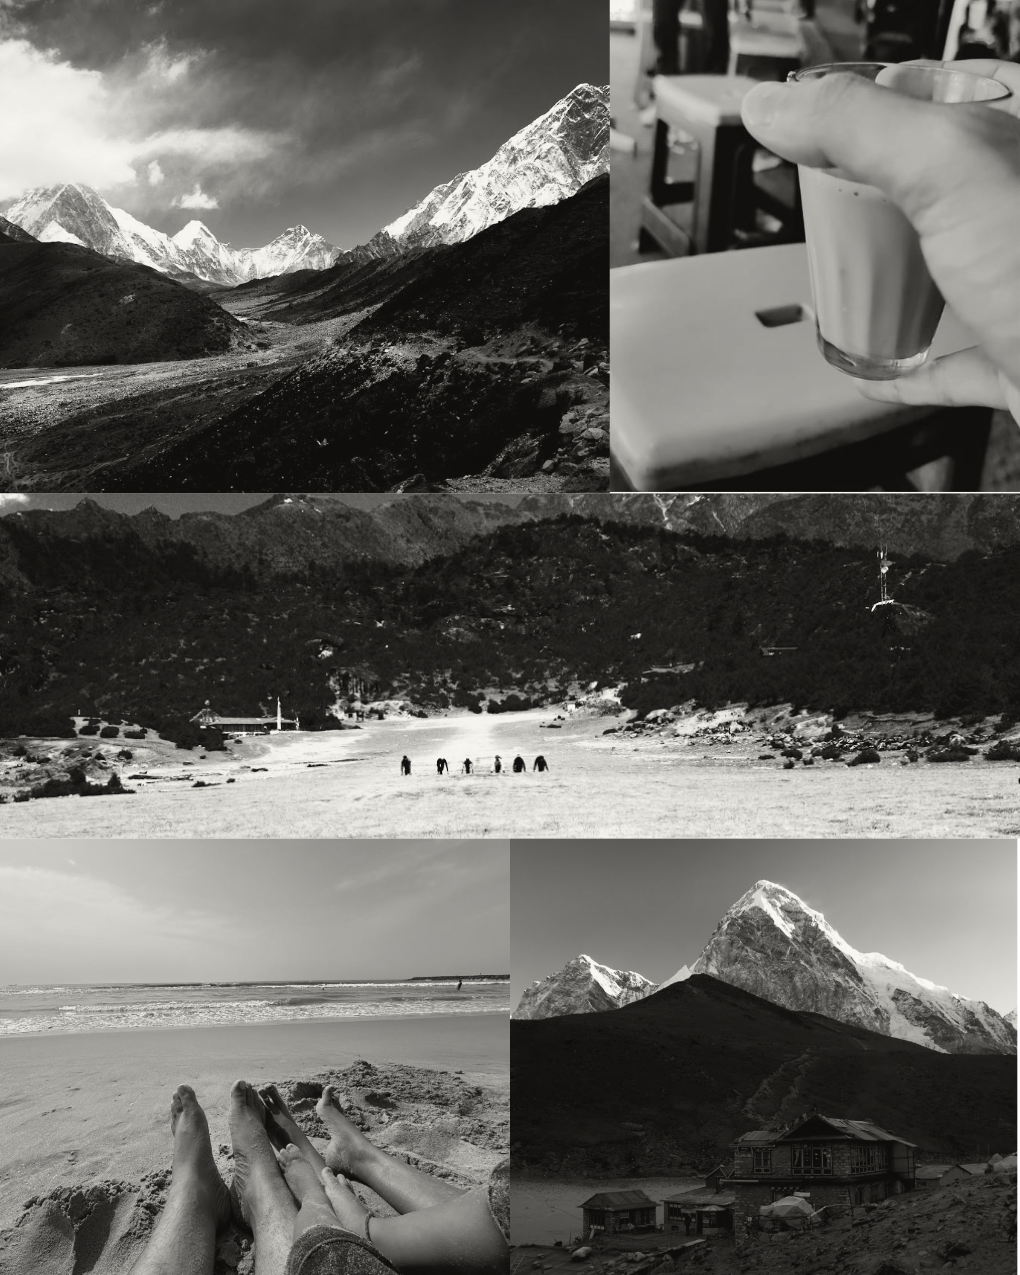
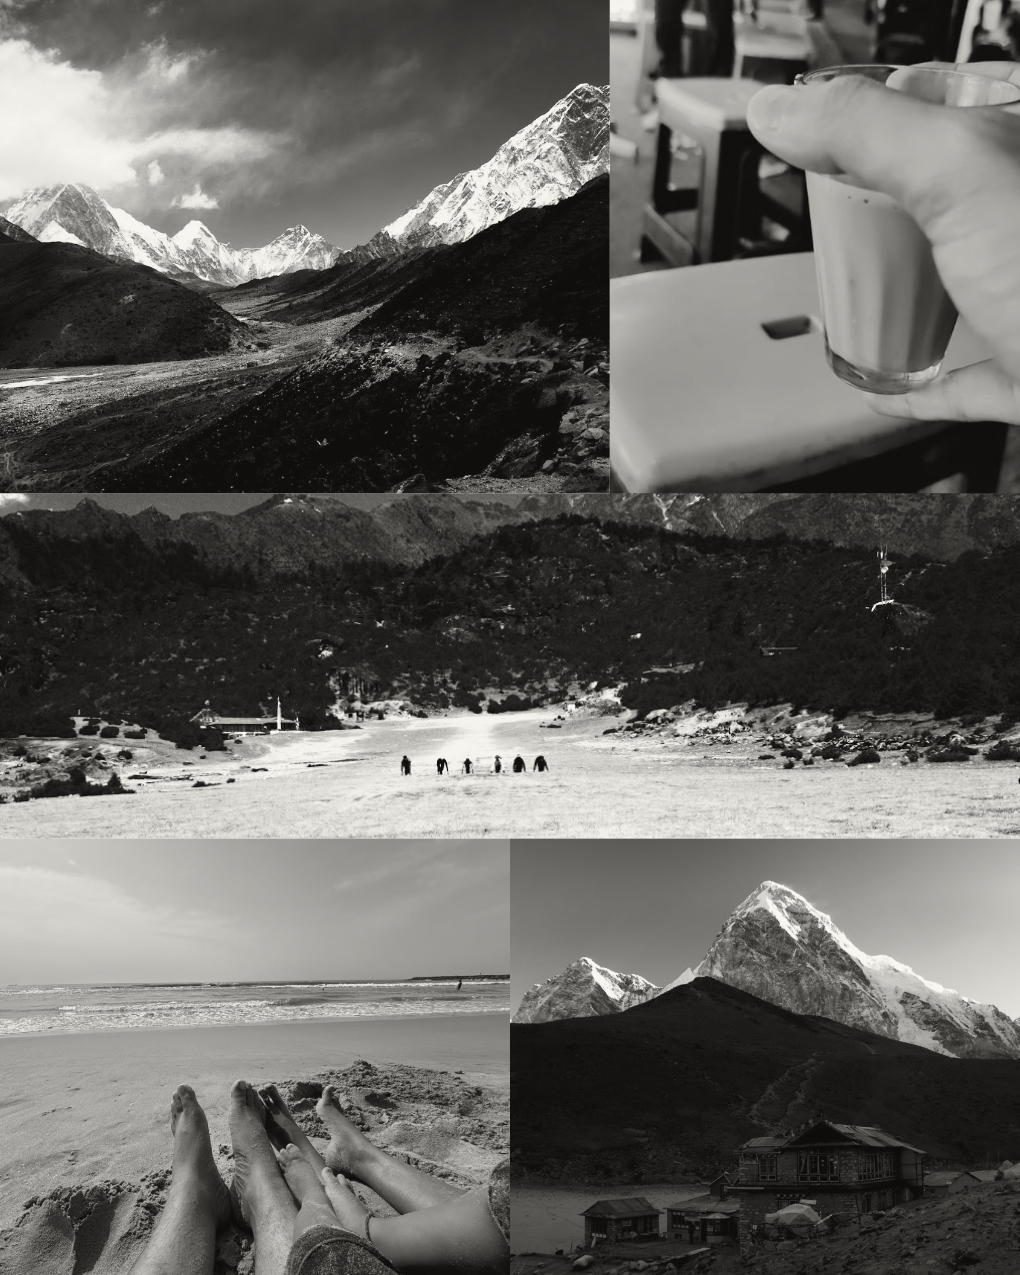
add heroimage

diff --git a/src/pages/Life.jsx b/src/pages/Life.jsx
@@ -1,6 +1,6 @@
 import React from "react";
 import Eyebrow from "../components/Eyebrow.jsx";
-import heroPlaceholder from "../assets/life/hero.svg";
+import heroPlaceholder from "../assets/life/hero.png";
 import mountainBwPlaceholder from "../assets/life/mountain-bw.png";
 import mountainCollagePlaceholder from "../assets/life/mountain-collage.png";
 import beachPlaceholder from "../assets/life/beach.png";
@@ -19,7 +19,7 @@ function StoryRow({ photoSrc, photoLabel, title, children }) {
       <PhotoBlock src={photoSrc} label={photoLabel} />
       <div>
         <h2 className="text-[24px] sm:text-[28px] font-semibold text-heading mb-3">{title}</h2>
-        <div className="space-y-3 text-[15px] leading-relaxed text-body">{children}</div>
+        <div className="space-y-3 text-[14px] leading-relaxed text-body">{children}</div>
       </div>
     </div>
   );
@@ -39,10 +39,10 @@ export default function Life() {
               Work is only one part of how I see the world — the rest, I find in quiet places, new roads, and small
               moments.
             </p>
-            <p className="text-[13px] font-medium text-accent uppercase tracking-wide mb-6">
+            <p className="text-[14px] font-medium text-accent uppercase tracking-wide mb-6">
               Traveler · Reader · Moment-Catcher · Stillness-Seeker
             </p>
-            <p className="text-[15px] sm:text-[16px] leading-relaxed text-body max-w-lg">
+            <p className="text-[14px] sm:text-[16px] leading-relaxed text-body max-w-lg">
               Outside of work, I enjoy exploring new places, reading books that challenge my perspective, and
               spending unhurried time over chai with friends. I find myself drawn to quiet places where I can slow
               down and simply be present. Those moments often become the inspiration I bring back into my work.
